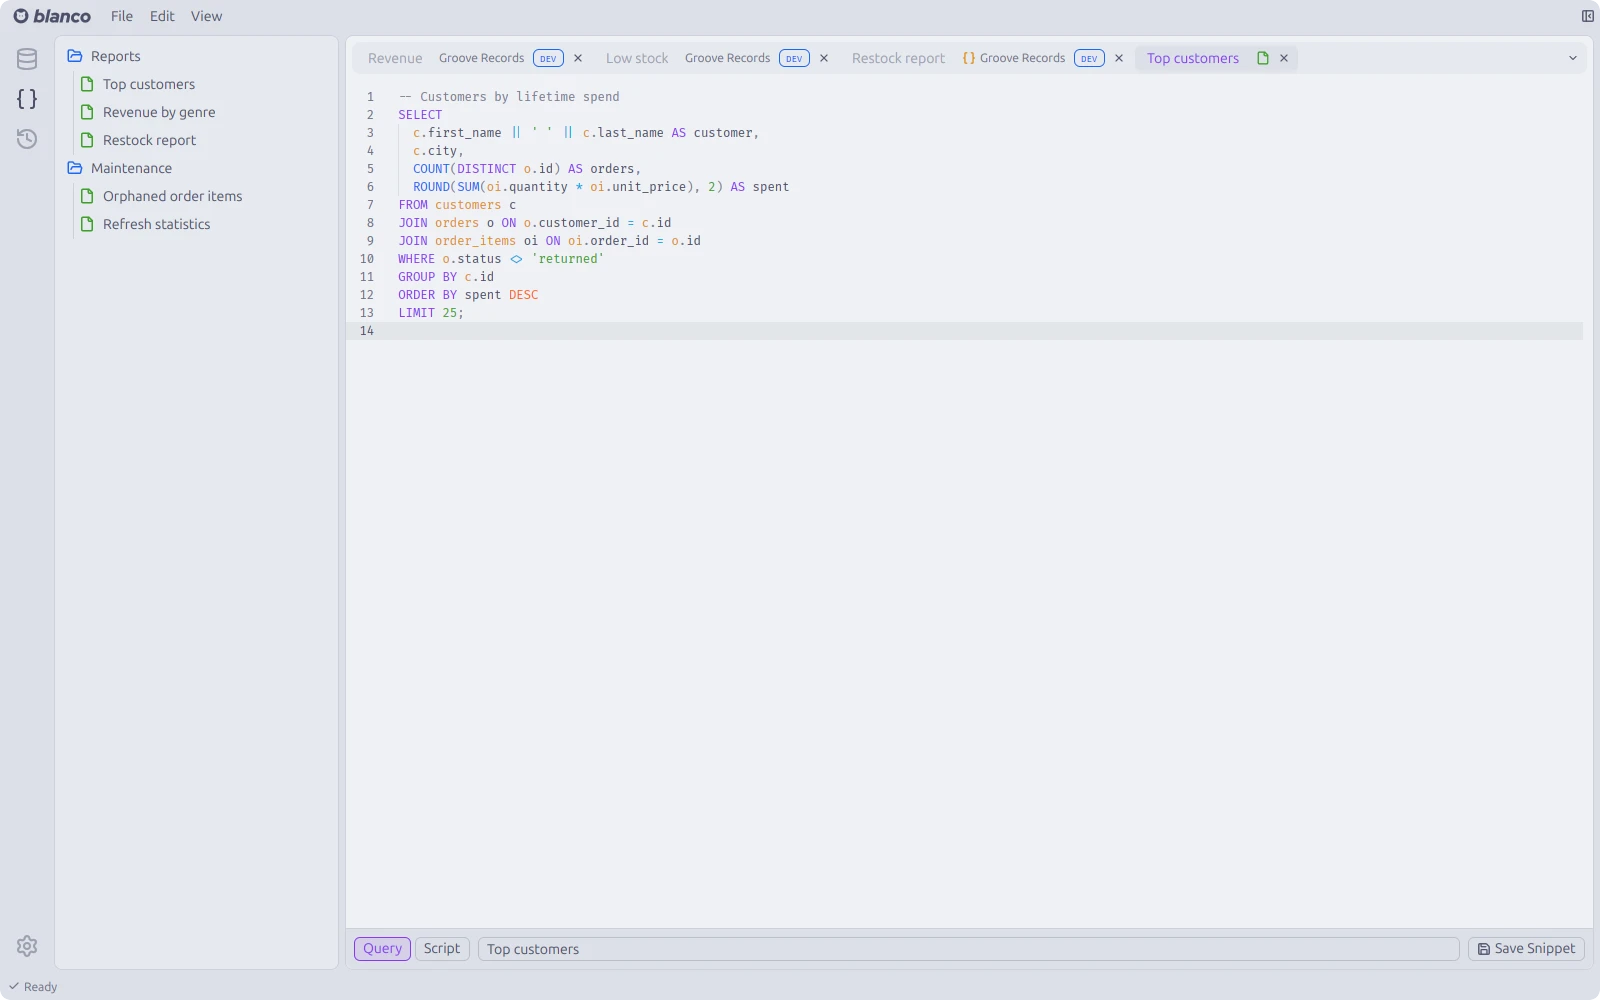
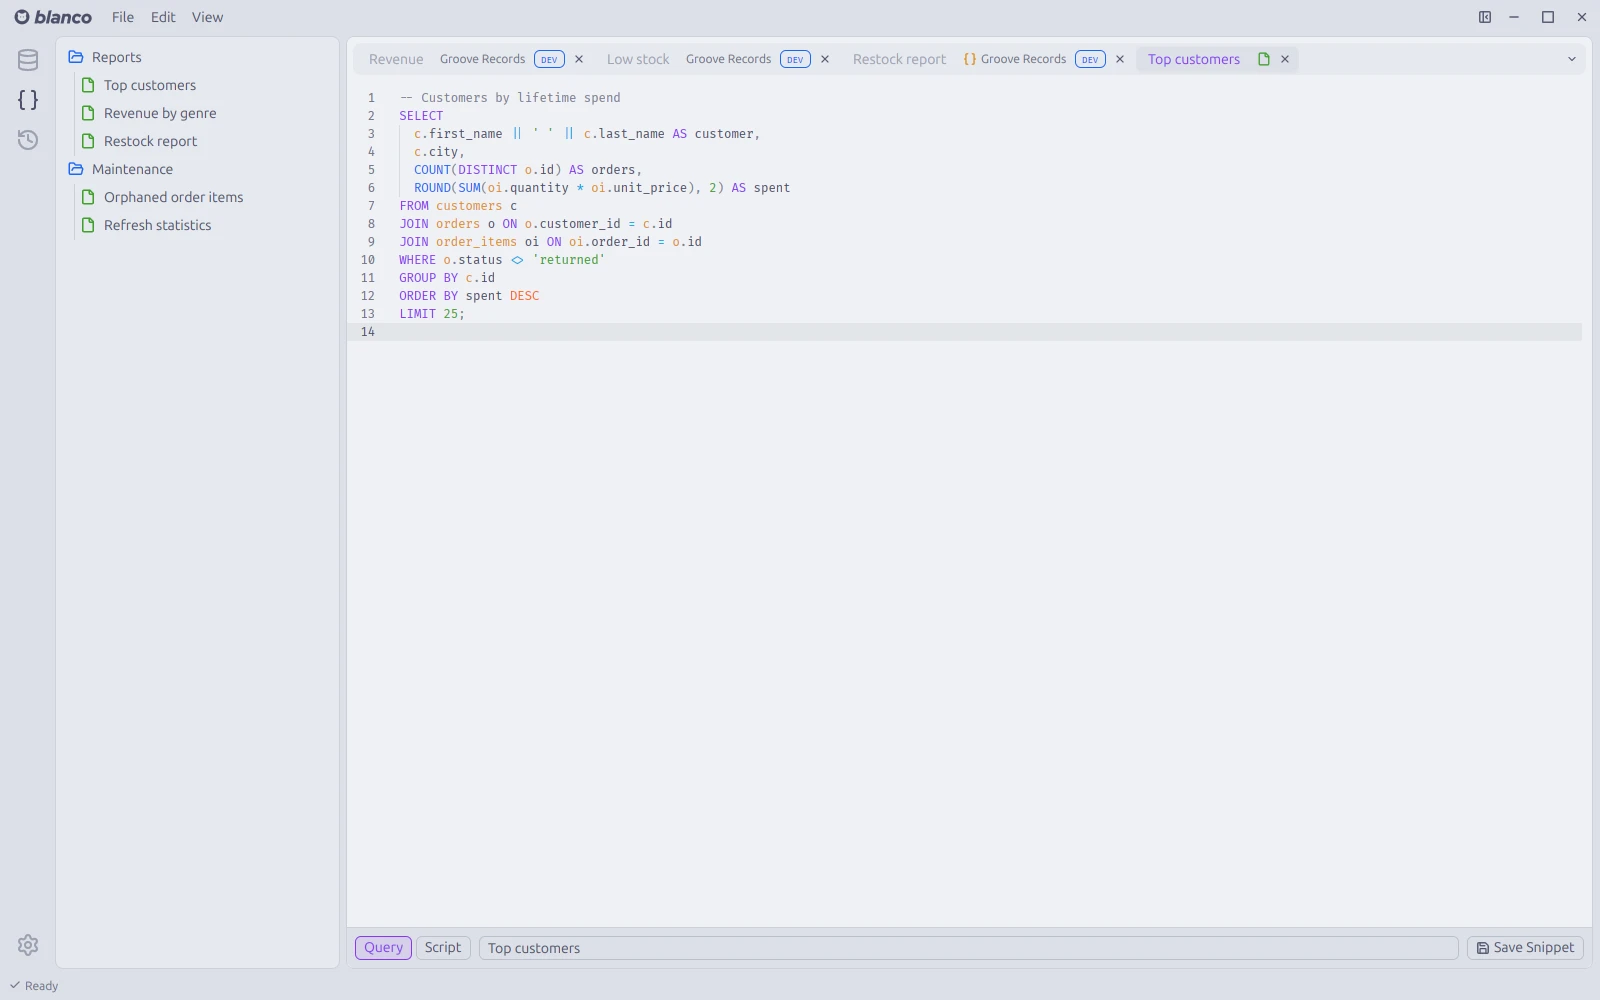
Draw the window controls in the screenshots
Xvfb runs no window manager, so gpui fell back to server-side decorations and the title bar left out the window controls. The capture script now advertises a window manager that supports _GTK_FRAME_EXTENTS, so gpui draws the client-side frame, and crops the frame's shadow inset. The scene window grows by that inset to keep the frame at 1600x1000. PNG_DIR also writes lossless PNGs.

diff --git a/crates/blanco/src/screenshots.rs b/crates/blanco/src/screenshots.rs
@@ -16,8 +16,10 @@ use crate::app::{BlancoApp, ConnectToConnection, SidebarTab};
 use crate::editor::EditorPanel;
 use crate::results_panel::CellInput;
 
-const WINDOW_WIDTH: &str = "1600";
-const WINDOW_HEIGHT: &str = "1000";
+// The visible frame is 1600x1000. On Linux the client-side frame adds a 20px
+// shadow inset on every side, which the capture script crops away.
+const WINDOW_WIDTH: &str = "1640";
+const WINDOW_HEIGHT: &str = "1040";
 
 const REVENUE_QUERY: &str = r#"-- Orders waiting to ship
 SELECT COUNT(*) AS pending FROM orders WHERE status = 'pending';
